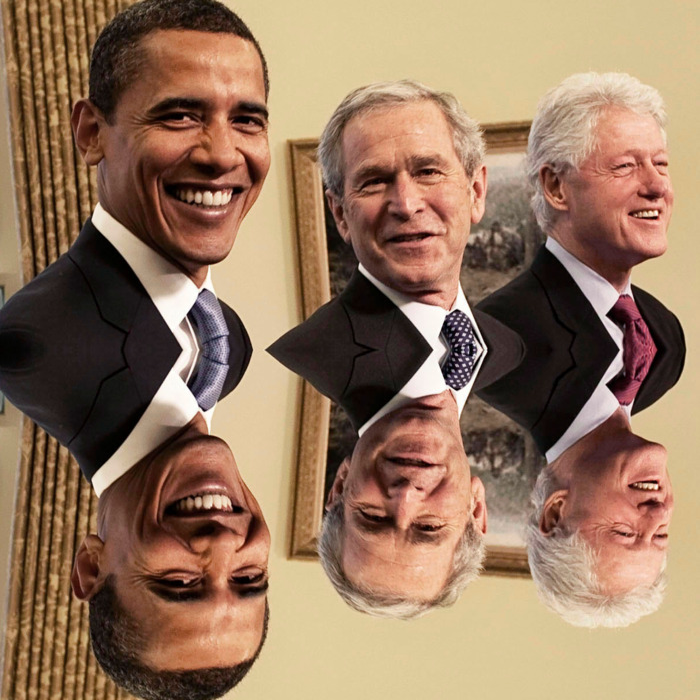
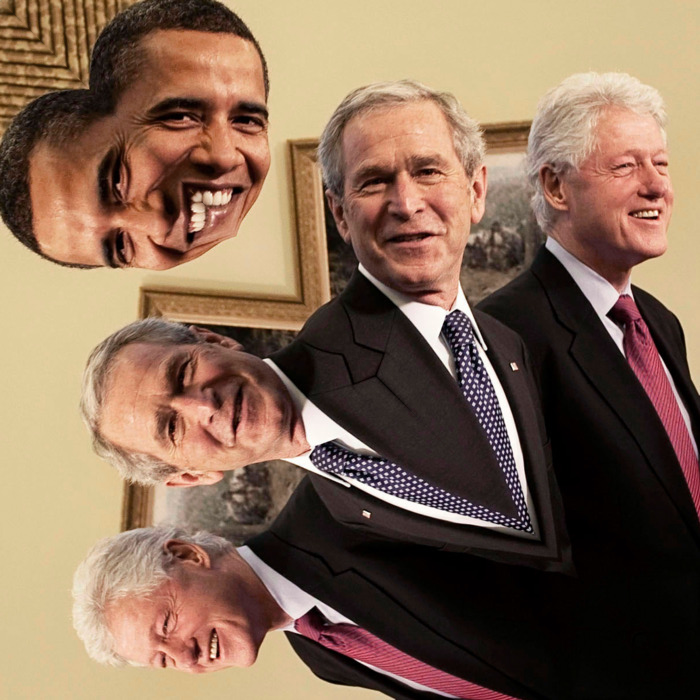
still not correct but another cool one

diff --git a/flip/flip.py b/flip/flip.py
@@ -4,17 +4,19 @@ im = Image.open('obama_og.jpg')
 pix = im.load()
 x_dim, y_dim = im.size
 print("dimensions:", x_dim, y_dim)
-print("(0,0):", pix[0,0])
-print("(0,699):", pix[0,699])
 
-for y in range(x_dim):
-    for x in range(y_dim):
-        pix[x,y_dim - y - 1], pix[x,y_dim - (y_dim - 1) - 1] = pix[x,y], pix[x, y_dim - 1]
-#pix[0,y_dim - 699 - 1] = pix[0,699]
-# print("(0,0):",pix[0,0])
-# print("(0,699):",pix[0,699])
+for x in range(x_dim ):
+    for y in range(y_dim):
+        print("(",x, ",", y,")", " ---->  (", pix[x,y], ")",sep="")
+        print("(",x, ",", y_dim - y - 1,")", " ---->  (", pix[x,y_dim - y - 1], ")",sep="")
+        pix[x,y] = pix[y,x]
+        print("-------------------------------------------------------")
+        print("(",x, ",", y,")", " ---->  (", pix[x,y], ")",sep="")
+        print("(",x, ",", y_dim - y - 1,")", " ---->  (", pix[x,y_dim - y - 1], ")",sep="")
+        print("mmmmmmmmmmmmmmmmmmmmmmmmmmmmmmmmmmmmmmmmmmmmmmmmmmmmmmmm")
+
 im.save('obama_flipped.png')
-
+# pix[x,y_dim - y - 1], pix[x,y] = pix[x,y], pix[x, y_dim - y - 1]
 # def flip(x):
 #     print("og:", x)
 #     y = []
